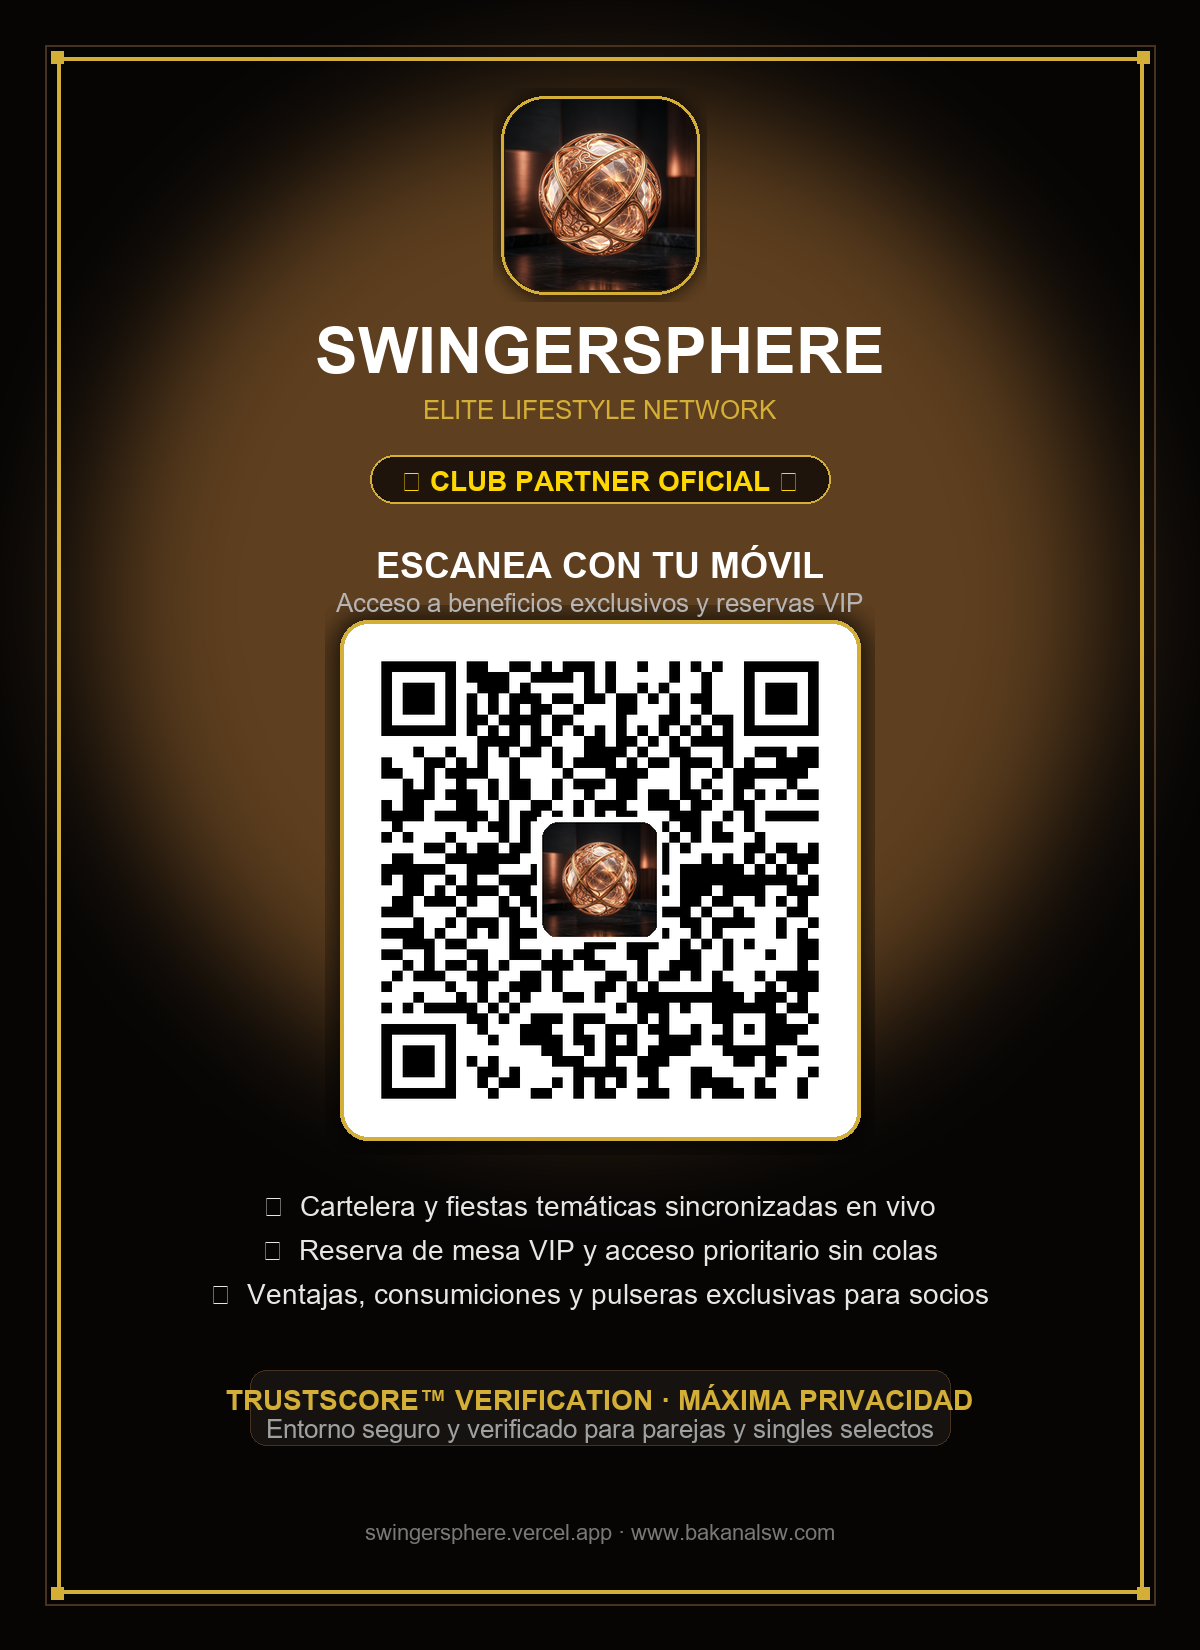
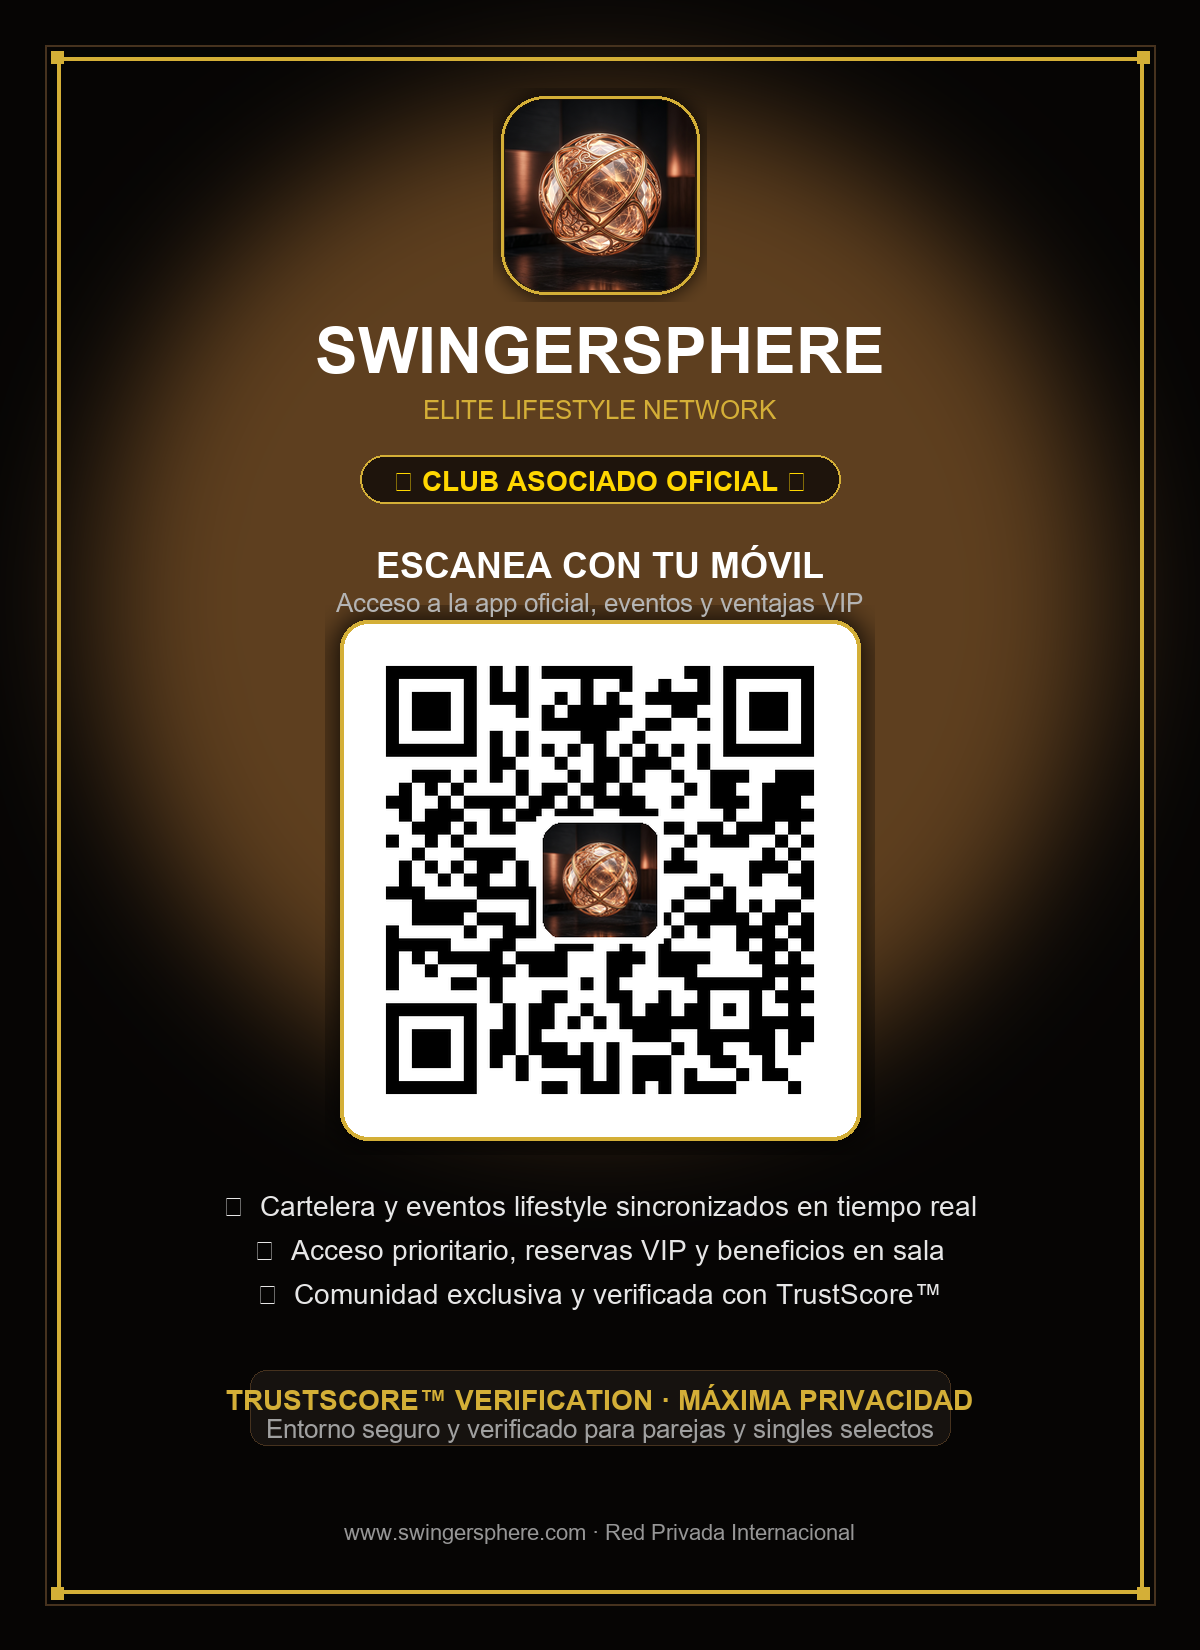
fix: QR universal para todos los clubes con dominio oficial https://www.swingersphere.com/ sin exclusividad

diff --git a/www/index.html b/www/index.html
@@ -9,14 +9,14 @@
   <title>SwingerSphere — La comunidad lifestyle más segura del mundo</title>
   <meta name="description" content="La primera red social lifestyle global donde la privacidad, la reputación verificable y la comunidad están por encima del negocio. Eventos, clubes exclusivos y parejas verificadas.">
   <meta name="robots" content="index, follow, max-image-preview:large, max-snippet:-1, max-video-preview:-1">
-  <link rel="canonical" href="https://swingersphere.vercel.app/">
+  <link rel="canonical" href="https://www.swingersphere.com/">
 
   <!-- Open Graph / Facebook / WhatsApp / Telegram -->
   <meta property="og:type" content="website">
-  <meta property="og:url" content="https://swingersphere.vercel.app/">
+  <meta property="og:url" content="https://www.swingersphere.com/">
   <meta property="og:title" content="SwingerSphere — Red Social Lifestyle & Eventos Exclusivos">
   <meta property="og:description" content="Privacidad extrema, reputación verificable y comunidad real +18. Encuentra eventos de ocio, clubes verificados y parejas afines.">
-  <meta property="og:image" content="https://swingersphere.vercel.app/img/splash_logo.webp">
+  <meta property="og:image" content="https://www.swingersphere.com/img/splash_logo.webp">
   <meta property="og:image:width" content="1200">
   <meta property="og:image:height" content="630">
   <meta property="og:image:alt" content="SwingerSphere Lifestyle Luxury Platform">
@@ -27,7 +27,7 @@
   <meta name="twitter:card" content="summary_large_image">
   <meta name="twitter:title" content="SwingerSphere — Red Social Lifestyle +18">
   <meta name="twitter:description" content="Privacidad extrema, reputación verificable y comunidad real +18. Eventos y clubes verificados.">
-  <meta name="twitter:image" content="https://swingersphere.vercel.app/img/splash_logo.webp">
+  <meta name="twitter:image" content="https://www.swingersphere.com/img/splash_logo.webp">
 
   <!-- Favicons & Mobile Icons (PWA & iOS Springboard) -->
   <link rel="icon" type="image/png" sizes="192x192" href="img/icon-192.png">
@@ -53,20 +53,20 @@
     "@graph": [
       {
         "@type": "Organization",
-        "@id": "https://swingersphere.vercel.app/#organization",
+        "@id": "https://www.swingersphere.com/#organization",
         "name": "SwingerSphere",
-        "url": "https://swingersphere.vercel.app/",
-        "logo": "https://swingersphere.vercel.app/img/splash_logo.webp",
+        "url": "https://www.swingersphere.com/",
+        "logo": "https://www.swingersphere.com/img/splash_logo.webp",
         "description": "Plataforma social lifestyle con máxima privacidad, verificación de reputación y eventos exclusivos para adultos +18.",
         "email": "soporte@swingersphere.com"
       },
       {
         "@type": "WebSite",
-        "@id": "https://swingersphere.vercel.app/#website",
-        "url": "https://swingersphere.vercel.app/",
+        "@id": "https://www.swingersphere.com/#website",
+        "url": "https://www.swingersphere.com/",
         "name": "SwingerSphere",
         "publisher": {
-          "@id": "https://swingersphere.vercel.app/#organization"
+          "@id": "https://www.swingersphere.com/#organization"
         },
         "inLanguage": "es"
       }

diff --git a/www/app.html b/www/app.html
@@ -1248,7 +1248,7 @@ async function loadDynamicEvents() {
 
   // Sincronización en tiempo real con Bakanal Swinger Club (www.bakanalsw.com)
   try {
-    const apiHost = window.location.protocol.startsWith('http') ? '' : 'https://swingersphere.vercel.app';
+    const apiHost = window.location.protocol.startsWith('http') ? '' : 'https://www.swingersphere.com';
     const bkRes = await fetch(apiHost + '/api/bakanal-events').catch(() => null);
     if (bkRes && bkRes.ok) {
       const bkData = await bkRes.json().catch(() => null);
@@ -3414,8 +3414,8 @@ function showLimocitoConfig() {
     '<h3 style="font-weight:700;margin-bottom:0.25rem;">Configurar Shadow IA</h3>' +
     '<p style="font-size:0.75rem;color:var(--silver);">Personaliza la conexión del asistente inteligente</p></div>' +
     '<div style="display:flex;flex-direction:column;gap:0.875rem;">' +
-      '<div><div style="font-size:0.72rem;color:var(--silver-dark);margin-bottom:0.3rem;">Servidor API de Vercel (móviles/local)</div>' +
-        '<input id="lm-server" type="text" value="' + serverVal + '" placeholder="https://swingersphere.vercel.app" style="width:100%;box-sizing:border-box;background:var(--bg-elevated);border:1px solid var(--border);border-radius:10px;padding:0.6rem 0.75rem;color:var(--fg-primary);font-size:0.82rem;">' +
+      '<div><div style="font-size:0.72rem;color:var(--silver-dark);margin-bottom:0.3rem;">Servidor API Central (móviles/local)</div>' +
+        '<input id="lm-server" type="text" value="' + serverVal + '" placeholder="https://www.swingersphere.com" style="width:100%;box-sizing:border-box;background:var(--bg-elevated);border:1px solid var(--border);border-radius:10px;padding:0.6rem 0.75rem;color:var(--fg-primary);font-size:0.82rem;">' +
       '</div>' +
       '<div style="border-top:1px dashed var(--border);margin:0.5rem 0;"></div>' +
       '<div><div style="font-size:0.72rem;color:var(--silver-dark);margin-bottom:0.3rem;">Proveedor de IA Propio (Opcional)</div>' +

diff --git a/www/js/limoncito-core.js b/www/js/limoncito-core.js
@@ -216,7 +216,7 @@ Responde de forma sabia, útil y concisa (máximo 3 párrafos).`;
     try {
       let apiServer = localStorage.getItem('lmcito_api_server') || '';
       if (!apiServer && (location.protocol === 'file:' || location.hostname === 'localhost' || location.hostname === '127.0.0.1')) {
-        apiServer = 'https://swingersphere.vercel.app';
+        apiServer = 'https://www.swingersphere.com';
       }
       const apiUrl = apiServer ? `${apiServer.replace(/\/$/, '')}/api/limoncito` : '/api/limoncito';
 

diff --git a/www/js/analytics.js b/www/js/analytics.js
@@ -12,7 +12,7 @@ window.Analytics = (function() {
     if (window.location.protocol.startsWith('http')) {
       return '';
     }
-    return 'https://swingersphere.vercel.app';
+    return 'https://www.swingersphere.com';
   }
 
   function _hasConsent() {

diff --git a/www/qr-stand.html b/www/qr-stand.html
@@ -349,7 +349,7 @@
 
     <!-- Footer URL -->
     <div class="stand-footer">
-      swingersphere.vercel.app · Red Exclusiva
+      www.swingersphere.com · Red Privada Internacional
     </div>
   </div>
 
